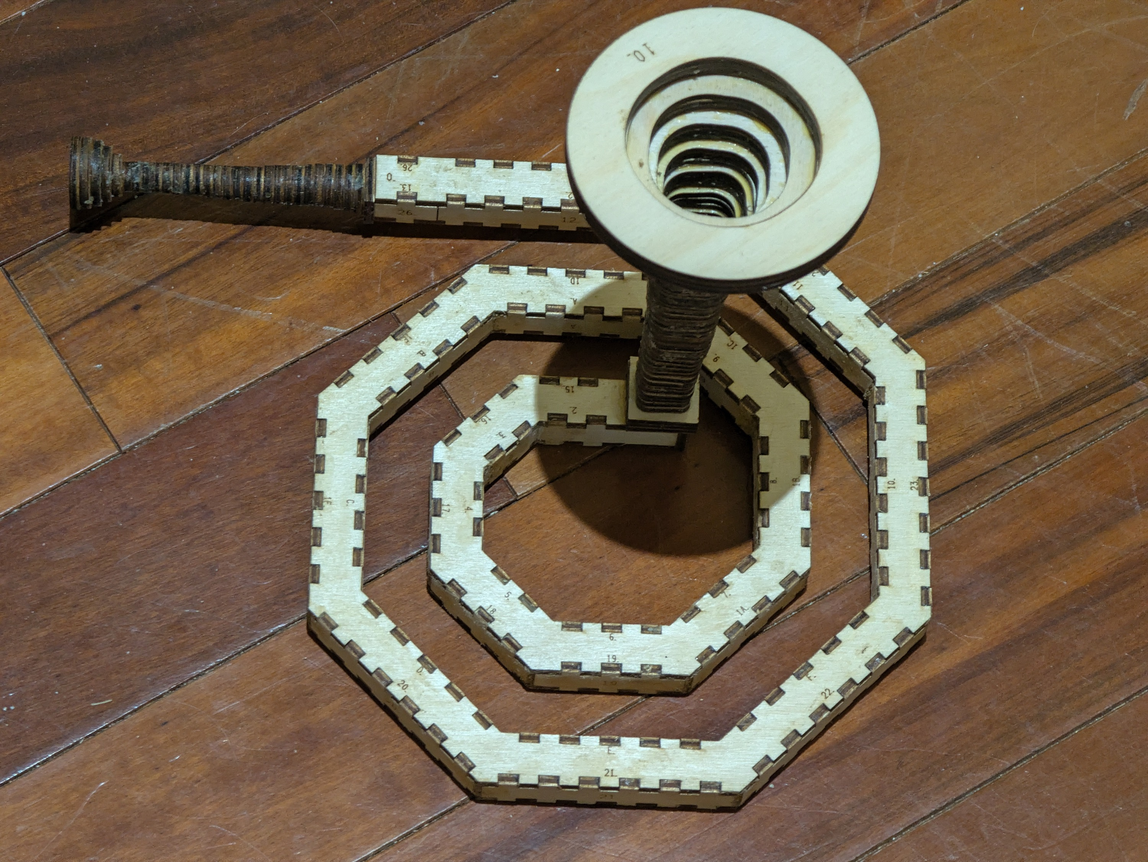
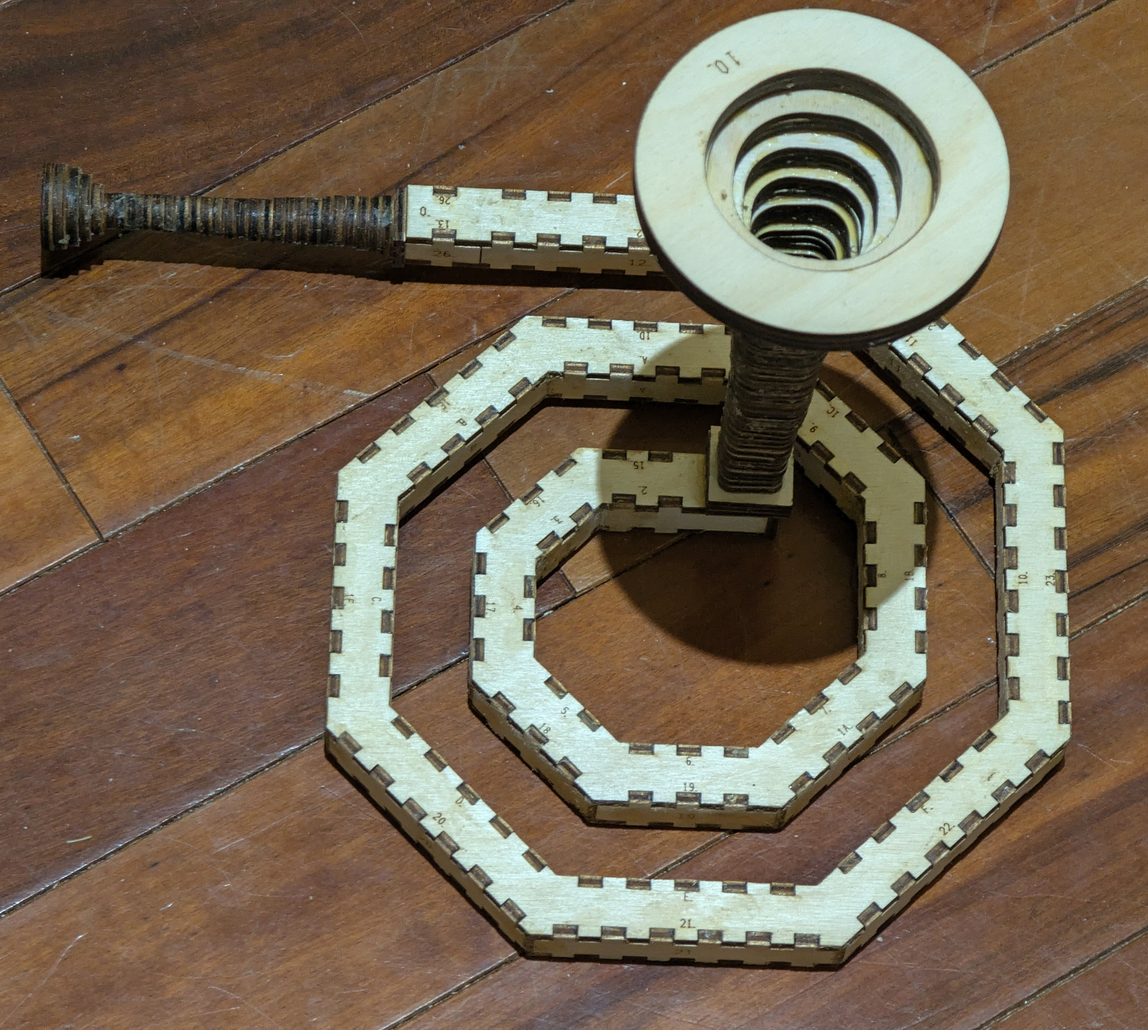
The glued-up photograph is cropped to the instrument, and the spiral is in the index
Two thirds of the frame was floor, so the coil rendered small in a column
sized for it. Recropped from the original to 6830 x 6128 and rebuilt at the
repository's two sizes.

The spiral had no row in "A page for each" despite being the second design
here that has been cut. It gets one, pointing at its viewer, and the
paragraph above the table says why that row is unlike the four over it.

Claude-Session: https://claude.ai/code/session_01XTXnWTXE6TaLYt3VGZwCm7

diff --git a/index.html b/index.html
@@ -119,8 +119,8 @@ cd parts/bell &amp;&amp; python3 bell-round.py 17 --bore=10 --length=152 --mouth
 <p>Each rebuilds its shipped sheet byte for byte and writes it into its own <code>cut-files/</code>.</p>
 <p>The joint at each end is a <strong>square annulus of ply 3mm wide</strong> — 10mm inside, 16mm out. The bell's ring 0 is a flange that covers all of it: a 22mm square with a 10mm hole, standing 3mm proud. The throat is taken from the bore's channel, so ring 0 lands squarely on the face it seals.</p>
 <h2 id="a-page-for-each">A page for each</h2>
-<p>Each of these carries the walk it is cut from, its blocks and centreline, its sections with their plates and sheet sizes, and a link to a viewer you can turn at tab size. The first is the instrument that exists; the next three are candidates that have not been cut.</p>
-<div class='tw'><table><thead><tr><th></th><th></th></tr></thead><tbody><tr><td><strong><a href="three-turn/">the three-turn trumpet</a></strong></td><td>44 blocks, 1096mm, twelve sections — <strong>the one that was built</strong>, and it plays</td></tr><tr><td><strong><a href="coiled/">the coiled trumpet</a></strong></td><td>59 blocks, 944mm, eight sections — coils flat and drops twice</td></tr><tr><td><strong><a href="switchback/">the switchback trumpet</a></strong></td><td>22 blocks, 352mm, six sections — folds back on itself twice</td></tr><tr><td><strong><a href="greek-spiral/">the greek spiral</a></strong></td><td>68 blocks, 1088mm, <strong>one</strong> section — a flat meander, the only bore here that cuts in one piece</td></tr><tr><td><strong><a href="ends/">the bell and the mouthpiece</a></strong></td><td>The two ends, shared by every bore on the 10mm channel</td></tr></tbody></table></div>
+<p>Each of these carries the walk it is cut from, its blocks and centreline, its sections with their plates and sheet sizes, and a link to a viewer you can turn at tab size. The first is the instrument that exists; the next three are candidates that have not been cut. The spiral after them is neither: it is a swept curve rather than a walk, it has been cut and glued up, and its link goes to a viewer rather than a page of its own.</p>
+<div class='tw'><table><thead><tr><th></th><th></th></tr></thead><tbody><tr><td><strong><a href="three-turn/">the three-turn trumpet</a></strong></td><td>44 blocks, 1096mm, twelve sections — <strong>the one that was built</strong>, and it plays</td></tr><tr><td><strong><a href="coiled/">the coiled trumpet</a></strong></td><td>59 blocks, 944mm, eight sections — coils flat and drops twice</td></tr><tr><td><strong><a href="switchback/">the switchback trumpet</a></strong></td><td>22 blocks, 352mm, six sections — folds back on itself twice</td></tr><tr><td><strong><a href="greek-spiral/">the greek spiral</a></strong></td><td>68 blocks, 1088mm, <strong>one</strong> section — a flat meander, the only bore here that cuts in one piece</td></tr><tr><td><strong><a href="parts/bore/concept/swept-curve/spiral/ribbon-spiral-bore10-45deg-R35to113/ribbon-spiral-bore10-45deg-R35to113.html">the spiral bore</a></strong></td><td>19 facets of 45°, 1000mm, R34.7 to R112.9 — a swept curve, cut in ply and glued up</td></tr><tr><td><strong><a href="ends/">the bell and the mouthpiece</a></strong></td><td>The two ends, shared by every bore on the 10mm channel</td></tr></tbody></table></div>
 <h2 id="cutting">Cutting</h2>
 <p>Everything is <strong>3mm birch ply on an xTool P2S</strong>, 600 × 308mm of bed.</p>
 <p><strong>Colour is the cut order</strong>: blue engraves, then green → orange → cyan → black, and black frees the part. On a bore section blue engraves the section number and black cuts. On a ring, orange takes the aperture first so the hole is in before the outline releases the part.</p>

diff --git a/README.md b/README.md
@@ -121,7 +121,9 @@ ring 0 lands squarely on the face it seals.
 Each of these carries the walk it is cut from, its blocks and centreline, its
 sections with their plates and sheet sizes, and a link to a viewer you can turn
 at tab size. The first is the instrument that exists; the next three are
-candidates that have not been cut.
+candidates that have not been cut. The spiral after them is neither: it is a
+swept curve rather than a walk, it has been cut and glued up, and its link goes
+to a viewer rather than a page of its own.
 
 | | |
 | --- | --- |
@@ -129,6 +131,7 @@ candidates that have not been cut.
 | **[the coiled trumpet](coiled/)** | 59 blocks, 944mm, eight sections — coils flat and drops twice |
 | **[the switchback trumpet](switchback/)** | 22 blocks, 352mm, six sections — folds back on itself twice |
 | **[the greek spiral](greek-spiral/)** | 68 blocks, 1088mm, **one** section — a flat meander, the only bore here that cuts in one piece |
+| **[the spiral bore](parts/bore/concept/swept-curve/spiral/ribbon-spiral-bore10-45deg-R35to113/ribbon-spiral-bore10-45deg-R35to113.html)** | 19 facets of 45°, 1000mm, R34.7 to R112.9 — a swept curve, cut in ply and glued up |
 | **[the bell and the mouthpiece](ends/)** | The two ends, shared by every bore on the 10mm channel |
 
 ## Cutting
